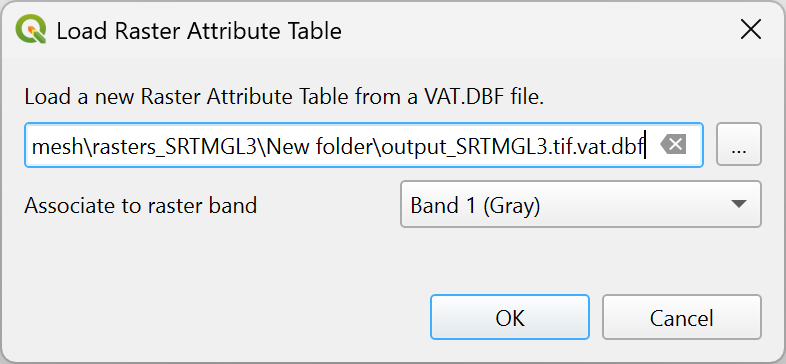
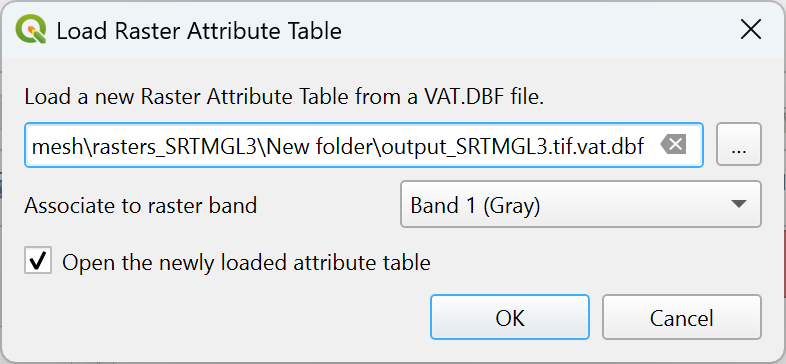
Applied feedback

Changed region(s): [[0.0305, 0.6648, 0.5496, 0.7555], [0.9771, 0.6346, 1.0, 0.8159]]

diff --git a/docs/user_manual/introduction/general_tools.rst b/docs/user_manual/introduction/general_tools.rst
@@ -209,69 +209,72 @@ Some of these entries are not available when multiple selections are made
  :widths: 34, 11, 11, 11, 11, 11, 11
  :class: longtable
 
- ============================================================ ============= =============== =============== ============= ==================== =============
-  Option                                                       Group         Vector Layer    Raster Layer    Mesh Layer    Point Cloud Layer    3D Layer
- ============================================================ ============= =============== =============== ============= ==================== =============
-  |zoomToLayer| :guilabel:`Zoom to Layer(s)/Group`             |checkbox|    |checkbox|      |checkbox|      |checkbox|    |checkbox|           |checkbox|
-  |zoomToLayer| :guilabel:`Zoom to Selection`                                |checkbox|
-  |inOverview| :guilabel:`Show in Overview`                                  |checkbox|      |checkbox|      |checkbox|    |checkbox|           |checkbox|
-  :guilabel:`Show Feature Count`                                             |checkbox|
-  |labelingSingle| :guilabel:`Show Label`                                    |checkbox|                      |checkbox|
-  :guilabel:`Copy Layer/Group`                                 |checkbox|    |checkbox|      |checkbox|      |checkbox|    |checkbox|           |checkbox|
-  :guilabel:`Rename Layer/Group`                               |checkbox|    |checkbox|      |checkbox|      |checkbox|    |checkbox|           |checkbox|
-  |zoomActual| :guilabel:`Zoom to Native Resolution (100%)`                                  |checkbox|
-  :guilabel:`Stretch Using Current Extent`                                                   |checkbox|
-  |dbManager| :guilabel:`Update SQL Layer...`                                |checkbox|
-  |dbManager| :guilabel:`Execute SQL...`                                     |checkbox|
-  |addVirtualLayer| :guilabel:`Edit Virtual Layer...`                        |checkbox|
-  |addGroup| :guilabel:`Add Group`                             |checkbox|
-  |duplicateLayer| :guilabel:`Duplicate Layer`                               |checkbox|      |checkbox|      |checkbox|    |checkbox|           |checkbox|
-  |removeLayer| :guilabel:`Remove Layer/Group...`              |checkbox|    |checkbox|      |checkbox|      |checkbox|    |checkbox|           |checkbox|
-  :guilabel:`Move Out of Group`                                              |checkbox|      |checkbox|      |checkbox|    |checkbox|
-  :guilabel:`Move to Top`                                      |checkbox|    |checkbox|      |checkbox|      |checkbox|    |checkbox|
-  :guilabel:`Move to Bottom`                                   |checkbox|    |checkbox|      |checkbox|      |checkbox|    |checkbox|
-  :guilabel:`Check and all its Parents`                                      |checkbox|      |checkbox|      |checkbox|    |checkbox|
-  :guilabel:`Group Selected`                                                 |checkbox|      |checkbox|      |checkbox|    |checkbox|
-  |openTable| :guilabel:`Open Attribute Table`                               |checkbox|
-  |toggleEditing| :guilabel:`Toggle Editing`                                 |checkbox|                      |checkbox|
-  |allEdits| :menuselection:`Current Edits -->`                              |checkbox|                      |checkbox|
-  :guilabel:`Filter...`                                                      |checkbox|      |checkbox|                    |checkbox|
-  :guilabel:`Change Data Source...`                                          |checkbox|      |checkbox|      |checkbox|    |checkbox|
-  :guilabel:`Repair Data Source...`                                          |checkbox|      |checkbox|      |checkbox|    |checkbox|
-  :menuselection:`Actions on selections -->` (in edit mode)                  |checkbox|
-  :menuselection:`--> Duplicate Feature`                                     |checkbox|
-  :menuselection:`--> Duplicate Feature and Digitize`                        |checkbox|
-  :guilabel:`Set Layer Scale Visibility...`                                  |checkbox|      |checkbox|      |checkbox|    |checkbox|           |checkbox|
-  :guilabel:`Zoom to Visible Scale`                                          |checkbox|      |checkbox|      |checkbox|    |checkbox|
-  :menuselection:`Layer CRS -->`                                             |checkbox|      |checkbox|      |checkbox|    |checkbox|           |checkbox|
-  :menuselection:`--> Set Project CRS from Layer`                            |checkbox|      |checkbox|      |checkbox|    |checkbox|           |checkbox|
-  :menuselection:`--> Set to..` (recent CRSs)                                                                |checkbox|    |checkbox|           |checkbox|
-  :menuselection:`--> Set Layer CRS...`                                      |checkbox|      |checkbox|      |checkbox|    |checkbox|           |checkbox|
-  :menuselection:`Set Group CRS...`                            |checkbox|
-  :guilabel:`Set Group WMS Data...`                            |checkbox|
-  |unchecked| :guilabel:`Mutually Exclusive Group`             |checkbox|
-  :guilabel:`Check and all its children (Ctrl-click)`          |checkbox|
-  :guilabel:`Uncheck and all its children (Ctrl-click)`        |checkbox|
-  :guilabel:`Make Permanent`                                                 |checkbox|
-  :menuselection:`Export -->`                                  |checkbox|    |checkbox|      |checkbox|      |checkbox|    |checkbox|           |checkbox|
-  :menuselection:`--> Save As...`                                                            |checkbox|
-  :menuselection:`--> Save Features As...`                                   |checkbox|
-  :menuselection:`--> Save Selected Features As...`                          |checkbox|
-  :menuselection:`--> Save As Layer Definition File...`        |checkbox|    |checkbox|      |checkbox|      |checkbox|    |checkbox|           |checkbox|
-  :menuselection:`--> Save As QGIS Layer Style File...`                      |checkbox|      |checkbox|      |checkbox|    |checkbox|           |checkbox|
-  :menuselection:`Styles -->`                                                |checkbox|      |checkbox|      |checkbox|    |checkbox|           |checkbox|
-  :menuselection:`--> Copy Style`                                            |checkbox|      |checkbox|      |checkbox|    |checkbox|           |checkbox|
-  :menuselection:`--> Paste Style`                             |checkbox|    |checkbox|      |checkbox|      |checkbox|    |checkbox|
-  :menuselection:`--> Add...`                                                |checkbox|      |checkbox|      |checkbox|    |checkbox|           |checkbox|
-  :menuselection:`--> Rename Current...`                                     |checkbox|      |checkbox|      |checkbox|    |checkbox|           |checkbox|
-  :menuselection:`--> Edit symbol...`                                        |checkbox|
-  :menuselection:`--> Copy Symbol`                                           |checkbox|
-  :menuselection:`--> Paste Symbol`                                          |checkbox|
-  :guilabel:`Add Layer Notes...`                                             |checkbox|      |checkbox|      |checkbox|    |checkbox|           |checkbox|
-  :guilabel:`Edit Layer Notes...`                                            |checkbox|      |checkbox|      |checkbox|    |checkbox|
-  :guilabel:`Remove Layer Notes`                                             |checkbox|      |checkbox|      |checkbox|    |checkbox|
-  :guilabel:`Properties...`                                                  |checkbox|      |checkbox|      |checkbox|    |checkbox|           |checkbox|
- ============================================================ ============= =============== =============== ============= ==================== =============
+ ================================================================= ============= =============== =============== ============= ==================== =============
+  Option                                                            Group         Vector Layer    Raster Layer    Mesh Layer    Point Cloud Layer    3D Layer
+ ================================================================= ============= =============== =============== ============= ==================== =============
+  |zoomToLayer| :guilabel:`Zoom to Layer(s)/Group`                  |checkbox|    |checkbox|      |checkbox|      |checkbox|    |checkbox|           |checkbox|
+  |zoomToLayer| :guilabel:`Zoom to Selection`                                     |checkbox|
+  |inOverview| :guilabel:`Show in Overview`                                       |checkbox|      |checkbox|      |checkbox|    |checkbox|           |checkbox|
+  :guilabel:`Show Feature Count`                                                  |checkbox|
+  |labelingSingle| :guilabel:`Show Label`                                         |checkbox|                      |checkbox|
+  :guilabel:`Copy Layer/Group`                                      |checkbox|    |checkbox|      |checkbox|      |checkbox|    |checkbox|           |checkbox|
+  :guilabel:`Rename Layer/Group`                                    |checkbox|    |checkbox|      |checkbox|      |checkbox|    |checkbox|           |checkbox|
+  |zoomActual| :guilabel:`Zoom to Native Resolution (100%)`                                       |checkbox|
+  :guilabel:`Stretch Using Current Extent`                                                        |checkbox|
+  |createTable|:guilabel:`Create Raster Attribute Table`                                         |checkbox|
+  |openTable|:guilabel:`Open Raster Attribute Table`                                              |checkbox|
+  |addTable|:guilabel:`Load Raster Attribute Table from VAT.DBF`                                  |checkbox|
+  |dbManager| :guilabel:`Update SQL Layer...`                                     |checkbox|
+  |dbManager| :guilabel:`Execute SQL...`                                          |checkbox|
+  |addVirtualLayer| :guilabel:`Edit Virtual Layer...`                             |checkbox|
+  |addGroup| :guilabel:`Add Group`                                  |checkbox|
+  |duplicateLayer| :guilabel:`Duplicate Layer`                                    |checkbox|      |checkbox|      |checkbox|    |checkbox|           |checkbox|
+  |removeLayer| :guilabel:`Remove Layer/Group...`                   |checkbox|    |checkbox|      |checkbox|      |checkbox|    |checkbox|           |checkbox|
+  :guilabel:`Move Out of Group`                                                   |checkbox|      |checkbox|      |checkbox|    |checkbox|
+  :guilabel:`Move to Top`                                           |checkbox|    |checkbox|      |checkbox|      |checkbox|    |checkbox|
+  :guilabel:`Move to Bottom`                                        |checkbox|    |checkbox|      |checkbox|      |checkbox|    |checkbox|
+  :guilabel:`Check and all its Parents`                                           |checkbox|      |checkbox|      |checkbox|    |checkbox|
+  :guilabel:`Group Selected`                                                      |checkbox|      |checkbox|      |checkbox|    |checkbox|
+  |openTable| :guilabel:`Open Attribute Table`                                    |checkbox|
+  |toggleEditing| :guilabel:`Toggle Editing`                                      |checkbox|                      |checkbox|
+  |allEdits| :menuselection:`Current Edits -->`                                   |checkbox|                      |checkbox|
+  :guilabel:`Filter...`                                                           |checkbox|      |checkbox|                    |checkbox|
+  :guilabel:`Change Data Source...`                                               |checkbox|      |checkbox|      |checkbox|    |checkbox|
+  :guilabel:`Repair Data Source...`                                               |checkbox|      |checkbox|      |checkbox|    |checkbox|
+  :menuselection:`Actions on selections -->` (in edit mode)                       |checkbox|
+  :menuselection:`--> Duplicate Feature`                                          |checkbox|
+  :menuselection:`--> Duplicate Feature and Digitize`                             |checkbox|
+  :guilabel:`Set Layer Scale Visibility...`                                       |checkbox|      |checkbox|      |checkbox|    |checkbox|           |checkbox|
+  :guilabel:`Zoom to Visible Scale`                                               |checkbox|      |checkbox|      |checkbox|    |checkbox|
+  :menuselection:`Layer CRS -->`                                                  |checkbox|      |checkbox|      |checkbox|    |checkbox|           |checkbox|
+  :menuselection:`--> Set Project CRS from Layer`                                 |checkbox|      |checkbox|      |checkbox|    |checkbox|           |checkbox|
+  :menuselection:`--> Set to..` (recent CRSs)                                                                     |checkbox|    |checkbox|           |checkbox|
+  :menuselection:`--> Set Layer CRS...`                                           |checkbox|      |checkbox|      |checkbox|    |checkbox|           |checkbox|
+  :menuselection:`Set Group CRS...`                                 |checkbox|
+  :guilabel:`Set Group WMS Data...`                                 |checkbox|
+  |unchecked| :guilabel:`Mutually Exclusive Group`                  |checkbox|
+  :guilabel:`Check and all its children (Ctrl-click)`               |checkbox|
+  :guilabel:`Uncheck and all its children (Ctrl-click)`             |checkbox|
+  :guilabel:`Make Permanent`                                                      |checkbox|
+  :menuselection:`Export -->`                                       |checkbox|    |checkbox|      |checkbox|      |checkbox|    |checkbox|           |checkbox|
+  :menuselection:`--> Save As...`                                                                 |checkbox|
+  :menuselection:`--> Save Features As...`                                        |checkbox|
+  :menuselection:`--> Save Selected Features As...`                               |checkbox|
+  :menuselection:`--> Save As Layer Definition File...`             |checkbox|    |checkbox|      |checkbox|      |checkbox|    |checkbox|           |checkbox|
+  :menuselection:`--> Save As QGIS Layer Style File...`                           |checkbox|      |checkbox|      |checkbox|    |checkbox|           |checkbox|
+  :menuselection:`Styles -->`                                                     |checkbox|      |checkbox|      |checkbox|    |checkbox|           |checkbox|
+  :menuselection:`--> Copy Style`                                                 |checkbox|      |checkbox|      |checkbox|    |checkbox|           |checkbox|
+  :menuselection:`--> Paste Style`                                  |checkbox|    |checkbox|      |checkbox|      |checkbox|    |checkbox|
+  :menuselection:`--> Add...`                                                     |checkbox|      |checkbox|      |checkbox|    |checkbox|           |checkbox|
+  :menuselection:`--> Rename Current...`                                          |checkbox|      |checkbox|      |checkbox|    |checkbox|           |checkbox|
+  :menuselection:`--> Edit symbol...`                                             |checkbox|
+  :menuselection:`--> Copy Symbol`                                                |checkbox|
+  :menuselection:`--> Paste Symbol`                                               |checkbox|
+  :guilabel:`Add Layer Notes...`                                                  |checkbox|      |checkbox|      |checkbox|    |checkbox|           |checkbox|
+  :guilabel:`Edit Layer Notes...`                                                 |checkbox|      |checkbox|      |checkbox|    |checkbox|
+  :guilabel:`Remove Layer Notes`                                                  |checkbox|      |checkbox|      |checkbox|    |checkbox|
+  :guilabel:`Properties...`                                                       |checkbox|      |checkbox|      |checkbox|    |checkbox|           |checkbox|
+ ================================================================= ============= =============== =============== ============= ==================== =============
 
 
 For GRASS vector layers, |toggleEditing| :sup:`Toggle editing` is not available.
@@ -2426,6 +2429,8 @@ For more information on the authentication system, see :ref:`authentication_inde
    :width: 2em
 .. |addGroup| image:: /static/common/mActionAddGroup.png
    :width: 1.5em
+.. |addTable| image:: /static/common/mActionAddTable.png
+   :width: 1.5em
 .. |addVirtualLayer| image:: /static/common/mActionAddVirtualLayer.png
    :width: 1.5em
 .. |allEdits| image:: /static/common/mActionAllEdits.png
@@ -2434,6 +2439,8 @@ For more information on the authentication system, see :ref:`authentication_inde
    :width: 1.5em
 .. |checkbox| image:: /static/common/checkbox.png
    :width: 1.3em
+.. |createTable| image:: /static/common/mActionCreateTable.png
+   :width: 1.5em
 .. |collapseTree| image:: /static/common/mActionCollapseTree.png
    :width: 1.5em
 .. |colorBox| image:: /static/common/mIconColorBox.png

diff --git a/docs/user_manual/working_with_raster/raster_properties.rst b/docs/user_manual/working_with_raster/raster_properties.rst
@@ -45,6 +45,9 @@ There are several tabs in the dialog:
   * - |display| :ref:`Display <raster_display>`
     - |overlay| :ref:`QGIS Server <raster_server>`
     - :ref:`External plugins <plugins>` ([2]_) tabs
+  * - :ref:`Attribute Tables <raster_attribute_tables>`
+    -
+    -
 
 
 .. [1] Also available in the :ref:`Layer styling panel <layer_styling_panel>`
@@ -1221,50 +1224,104 @@ associated Raster Attribute Table, QGIS displays a notice informing that no
 attribute table is currently linked to the data source. In this state, the
 interface provides two options to define and associate a new attribute table:
 
-* :guilabel:`New attribute table from current symbology`: creates table based on the current
-  symbology of the raster layer. The :guilabel:`New Raster Attribute Table` dialog will appear and let you set:
+* :guilabel:`New attribute table from current symbology`: will appear if your raster
+  layer has a classified symbology applied. Otherwise, this option is disabled. Applying classified
+  symbology also triggers an option in the layer context menu to |createTable|:guilabel:`Create Raster Attribute Table`.
+  Click this button and set the following options in the :guilabel:`New Raster Attribute Table` dialog.
   
    * :guilabel:`Managed by the data provider`: the attribute table will be saved
-     and managed by the data provider (if supported).
-   * :guilabel:`Sidecar VAT.DBF file`: the attribute table will be saved
-     in a DBF file named :file:`VAT.DBF` located in the same directory as the raster file.
+     and managed by the data provider (if supported), overwriting any existing table
+     for the raster band used by the current style. Depending on the data provider,
+     the attribute table will be embedded in the main raster file or saved
+     into a sidecar file managed by the data provider.
+   * :guilabel:`Sidecar VAT.DBF file`: saves the attribute table into
+     a sidecar VAT.DBF file. The resulting file will not be associated with
+     any particular band.
 
-.. figure:: img/raster_attribute_table_symbology.png
-   :align: center
-   :width: 400px
+   .. figure:: img/raster_attribute_table_symbology.png
+      :align: center
+      :width: 400px
 
-   Create new attribute table from current symbology
+      Create new attribute table from current symbology
 
-* :guilabel:`Load attribute table from VAT.DBF file`: retrieve the attribute table
-  from an external DBF file. The action also can be done by right-clicking the raster layer
-  in the layers panel and selecting :guilabel:`Load Raster Attribute Table from VAT.DBF`.
-  This file must be named :file:`VAT.DBF` and located in the same directory
-  as the raster file. :guilabel:`Load Raster Attribute Table` dialog will appear
+* :guilabel:`Load attribute table from VAT.DBF file`: retrieves the attribute table
+  from an external DBF file.
+  :guilabel:`Load Raster Attribute Table` dialog will appear
   to let you browse and select the DBF file and associate it with the raster band.
+  The action also can be done by right-clicking the raster layer
+  in the layers panel and selecting |addTable|:guilabel:`Load Raster Attribute Table from VAT.DBF`.
+  |checkbox| :guilabel:`Open the newly loaded attribute table` allows you to
+  directly open the attribute table editor after loading the table.
 
-.. figure:: img/raster_attribute_table_load.png
-   :align: center
-   :width: 400px
+  .. figure:: img/raster_attribute_table_load.png
+     :align: center
+     :width: 400px
 
-   Load attribute table from VAT.DBF file
+     Load attribute table from VAT.DBF file
 
 Editing raster attribute tables
 --------------------------------
 
-When you open the raster attribute table, the |editTable|:sup:`Edit Attribute Table` button allows you to modify the table.
-If no specific row or field is selected, only the |newAttribute|:sup:`Add Column…` option is available.
-The following list describes all available editing options:
+When set, a raster attribute table can be accessed from the :guilabel:`Attribute tables` tab
+of the layer properties dialog or by selecting :guilabel:`Open raster attribute table`
+from the layer contextual menu in :guilabel:`Layers` panel.
+This dialog shows a table whose rows correspond to the different pixel values
+or value ranges classified in a given band of the raster layer.
+Depending on the type of classification, a row is described by:
 
-* |editTable|:sup:`Edit Attribute Table` enables editing mode for the raster attribute table.
-* |newAttribute|:sup:`Add Column...` opens the :guilabel:`Add Column` dialog to add a new column
-  to the raster attribute table. Choose whether the :guilabel:`Column Type` is
-  |radioButtonOff|:guilabel:`Standard column`, |radioButtonOff|:guilabel:`Color RGBA` or
-  |radioButtonOff|:guilabel:`Color ramp (RGBA minimum and RGBA maximum)`.
-  In the :guilabel:`Column Definition`, :guilabel:`Usage` can be either :guilabel:`Pixel Count`, :guilabel:`Generic` or :guilabel:`Name`.
-  Select the :guilabel:`Data type` as well to :guilabel:`String`, :guilabel:`Integer`,
-  :guilabel:`Long Integer` or :guilabel:`Double`. Enter the :guilabel:`Name` of the new column (can't be blank).
-  Decide whether the :guilabel:`Insertion point` is |radioButtonOff|:guilabel:`Before`
-  or |radioButtonOff|:guilabel:`After` a specific column selected from the dropdown list. 
+* for an exact values classification (e.g., paletted/unique values):
+  the band name and the applied :guilabel:`Color`.
+  Additional fields of the :guilabel:`Red`, :guilabel:`Green`, :guilabel:`Blue` and :guilabel:`Opacity` of the color are displayed.
+* for range values classification (e.g., singleband pseudocolor): the range of values
+  defined by their :guilabel:`Min`,  :guilabel:`Max`, the associated label (:guilabel:`Class`)
+  and color ramp interpolated over the values (:guilabel:`Color`).
+  Additional fields of the minimum and maximum of  :guilabel:`Red`, :guilabel:`Green`, :guilabel:`Blue`
+  and :guilabel:`Opacity` of the color ramp are displayed.
+
+You can also customize the raster attribute table by adding new fields for classification
+and group different value ranges accordingly,
+modifying value ranges and their associated colors or labels,
+adding new rows, ...
+The new attribute table can be used to update the current layer symbology.
+
+.. figure:: img/raster_attribute_table.png
+   :align: center
+   :width: 70%
+
+   Raster Attribute Table
+
+At the top of the dialog, a set of tools allows to edit and save changes to the attribute table:
+
+* |editTable| :sup:`Edit Attribute Table` turns the table into edit mode.
+  If no specific row or field is selected, only the |newAttribute| :sup:`Add Column…` option is available.
+* |newAttribute| :sup:`Add Column...` opens the :guilabel:`Add Column` dialog to add a new
+  column to the raster attribute table. The dialog lets you define:
+
+  * :guilabel:`Column Type`, which can be:
+  
+    * |radioButtonOff| :guilabel:`Standard column`
+    * |radioButtonOff| :guilabel:`Color RGBA`
+    * |radioButtonOff| :guilabel:`Color ramp (RGBA minimum and RGBA maximum)`
+
+  * :guilabel:`Column Definition`, including:
+  
+    * :guilabel:`Name` of the column (mandatory)
+    * :guilabel:`Usage`, which can be:
+    
+      * :guilabel:`Pixel Count`: stores the number of pixels belonging to a given value or value range.
+      * :guilabel:`Generic`: general-purpose column with no predefined meaning.
+      * :guilabel:`Name`: stores the class name or label associated with a raster value or range.
+
+    * :guilabel:`Data type`, which can be:
+    
+      * :guilabel:`String`
+      * :guilabel:`Integer`
+      * :guilabel:`Long Integer`
+      * :guilabel:`Double`
+
+  * :guilabel:`Insertion point`, defining whether the new column is inserted
+    |radioButtonOff| :guilabel:`Before` or |radioButtonOff| :guilabel:`After`
+    a selected existing column.
 
   .. figure:: img/raster_attribute_table_add_column.png
      :align: center
@@ -1272,17 +1329,19 @@ The following list describes all available editing options:
 
      Add Column dialog
 
-* :guilabel:`Add Row...` opens the :guilabel:`Add Row` dialog to add a new row
+* |newTableRow|:guilabel:`Add Row...` opens the :guilabel:`Add Row` dialog to add a new row
   to the raster attribute table. Choose the :guilabel:`Insertion point` as |radioButtonOff|:guilabel:`Before current row`
   or |radioButtonOff|:guilabel:`After current row`.
 
-* :guilabel:`Remove Row` removes the selected row(s) from the raster attribute table.
-* |deleteAttribute|:sup:`Remove Column` removes the selected column(s) from the raster attribute table.
-* :guilabel:`Save Changes` saves any modifications made to the raster attribute table.
+* |removeSelectedFeature|:sup:`Remove Row` removes the selected row from the raster attribute table.
+* |deleteAttribute|:sup:`Remove Column` removes the selected column from the raster attribute table.
+* |saveAllEdits|:sup:`Save Changes` saves any modifications made to the raster attribute table.
+
+The next row provides options for controlling the displayed information in the table:
+
 * :guilabel:`Raster band`: allows selecting which raster band the attribute table applies to.
   Raster layers may contain multiple bands (e.g., multispectral data).
-  Each band can have its own Raster Attribute Table. If only a single band is present,
-  this dropdown will show only one option.
+  Each band can have its own Raster Attribute Table.
 * :guilabel:`Classification`: allows selecting the fields used for classifying the raster layer.
   Keep in mind that the existing symbology for the raster will be replaced by a new symbology from the attribute table
   and any unsaved changes to the current symbology will be lost.
@@ -1336,11 +1395,15 @@ such as:
 
 .. |actionRun| image:: /static/common/mAction.png
    :width: 1.5em
+.. |addTable| image:: /static/common/mActionAddTable.png
+   :width: 1.5em
 .. |autoPlacementSettings| image:: /static/common/mIconAutoPlacementSettings.png
    :width: 1.5em
 .. |checkbox| image:: /static/common/checkbox.png
    :width: 1.3em
 .. |contextHelp| image:: /static/common/mActionContextHelp.png
+   :width: 1.5em
+.. |createTable| image:: /static/common/mActionCreateTable.png
    :width: 1.5em
 .. |deleteAttribute| image:: /static/common/mActionDeleteAttribute.png
    :width: 1.5em
@@ -1388,6 +1451,8 @@ such as:
    :width: 1.5em
 .. |newAttribute| image:: /static/common/mActionNewAttribute.png
    :width: 1.5em
+.. |newTableRow| image:: /static/common/mActionNewTableRow.png
+   :width: 1.5em
 .. |overlay| image:: /static/common/overlay.png
    :width: 1.5em
 .. |pyramids| image:: /static/common/pyramids.png
@@ -1398,9 +1463,13 @@ such as:
    :width: 1.5em
 .. |rasterHistogram| image:: /static/common/rasterHistogram.png
    :width: 1.5em
+.. |removeSelectedFeature| image:: /static/common/mActionRemoveSelectedFeature.png
+   :width: 1.5em
 .. |render| image:: /static/common/render.png
    :width: 1.5em
 .. |rendering| image:: /static/common/rendering.png
+   :width: 1.5em
+.. |saveAllEdits| image:: /static/common/mActionSaveAllEdits.png
    :width: 1.5em
 .. |setProjection| image:: /static/common/mActionSetProjection.png
    :width: 1.5em
